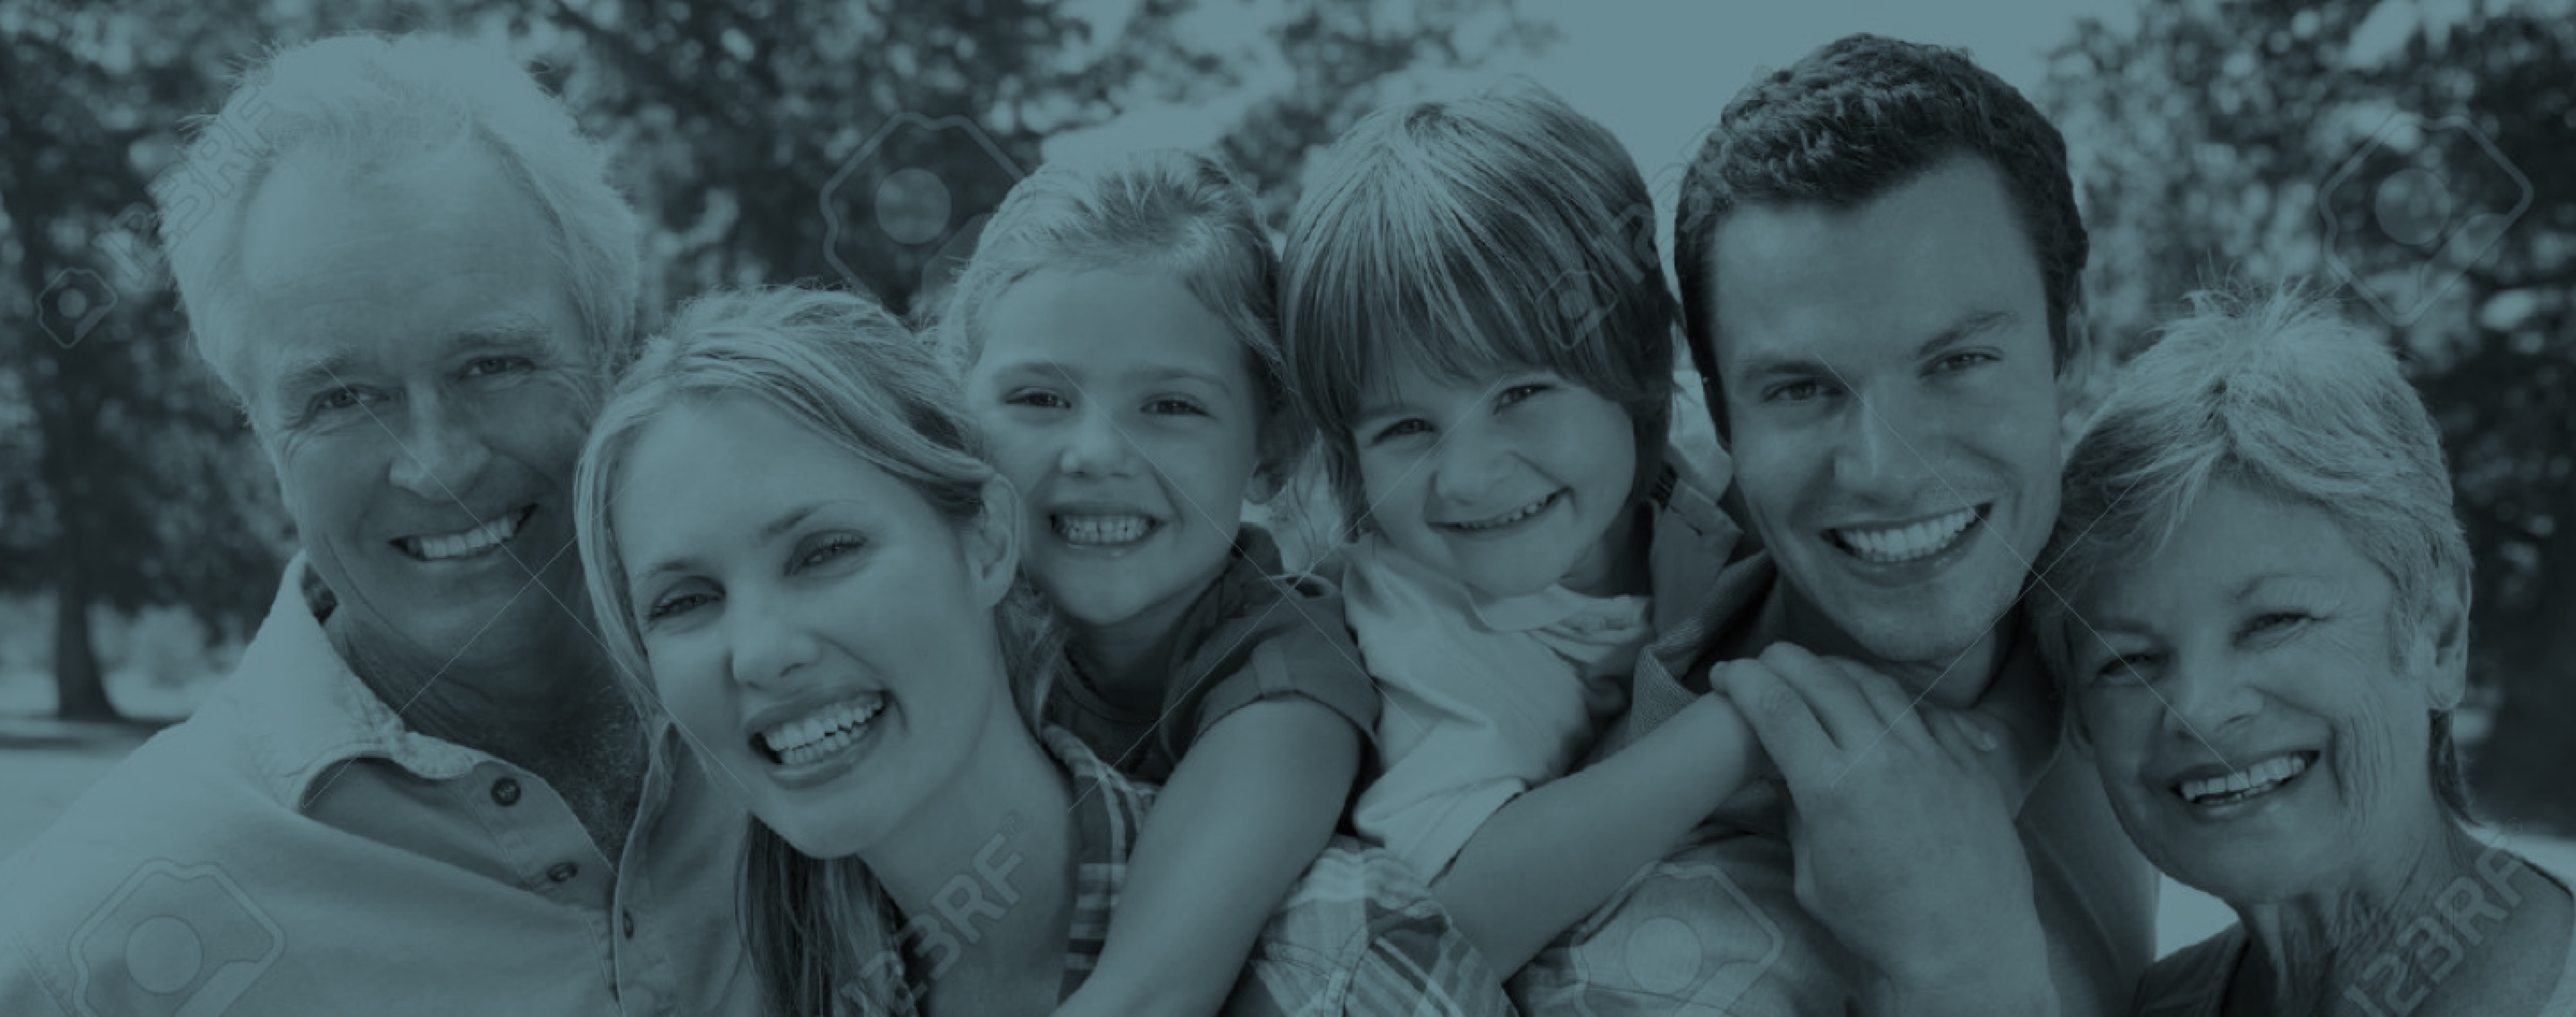
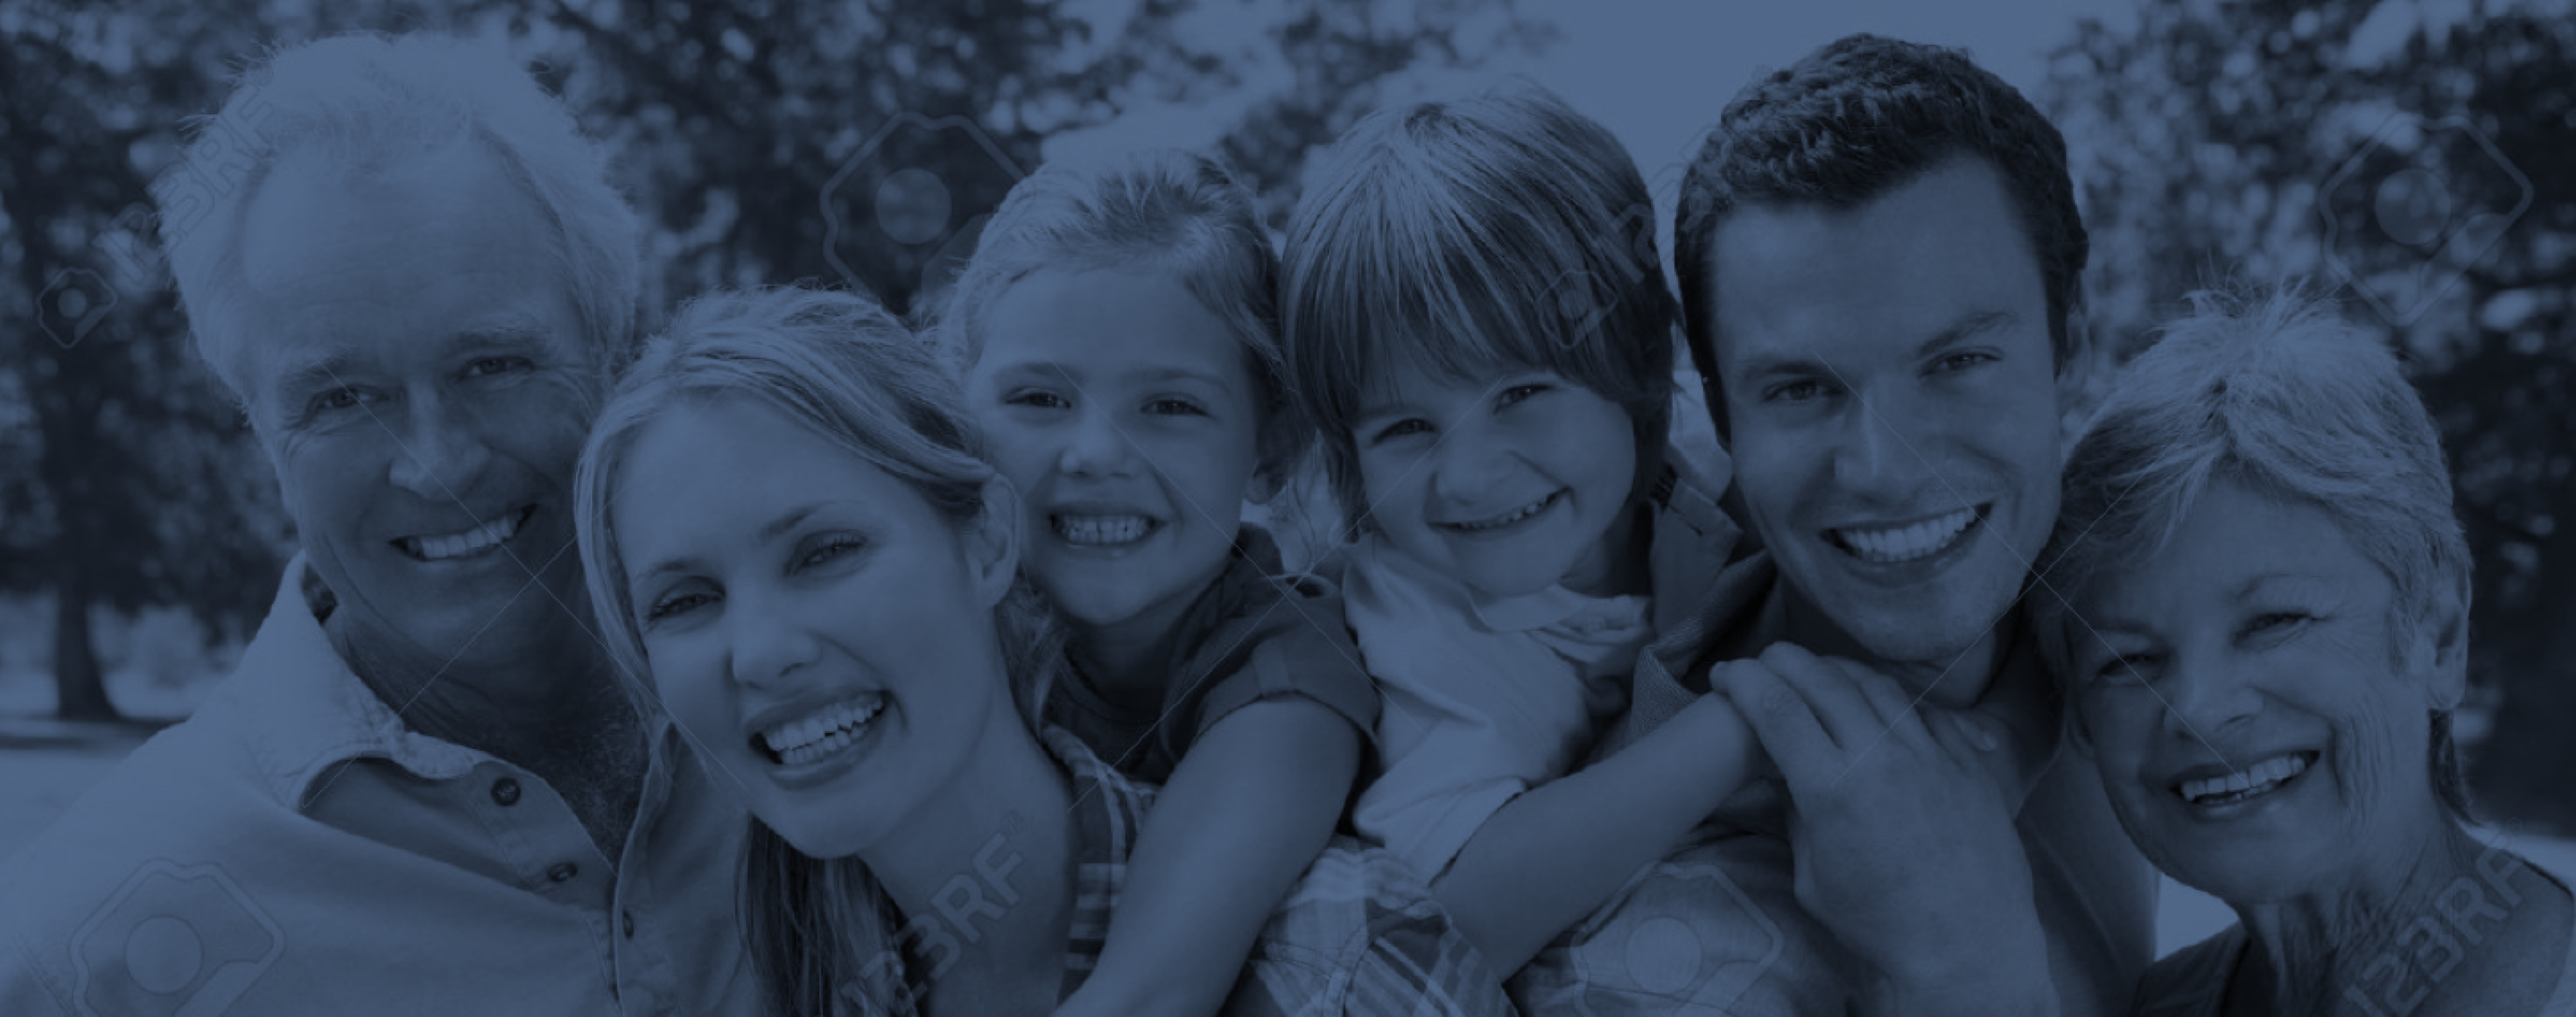
version-color-azul

diff --git a/estilos.less b/estilos.less
@@ -4,6 +4,10 @@
  * Licensed under MIT (https://github.com/BlackrockDigital/startbootstrap/blob/gh-pages/LICENSE)
  */
 
+@azul-oscuro: #2F4B74;
+@azul-claro: #C3D2E9;
+@naranja: #E26D00;
+
 html,
 body {
     height: 560px;
@@ -43,7 +47,7 @@ body {
 .carousel-caption h2{
     font-weight: 400;
     font-size: 42px;
-    color: #ECFFDF;
+    color: @azul-claro;
     line-height: 44px;
     margin-bottom: 1em;
 }
@@ -110,8 +114,8 @@ nav{
 .entrada{
     padding: 2em;
     height: 200px;
-    background: #3AB294;
-    border-top: solid 10px #ECFFDF; 
+    background: @naranja;
+    border-top: solid 10px #723A05; 
     position: relative;
     margin-top: -7em;
     -webkit-box-shadow: 0px 0px 80px -17px rgba(0,0,0,0.75);
@@ -145,7 +149,7 @@ box-shadow: 0px 0px 80px -17px rgba(0,0,0,0.75);
     h3{
         font-family: Roboto-Bold;
         font-size: 30px;
-        color: #3AB294;
+        color: @azul-oscuro;
         letter-spacing: 5.11px;
         line-height: 35px;
      }
@@ -154,7 +158,7 @@ box-shadow: 0px 0px 80px -17px rgba(0,0,0,0.75);
         width: 39px;
         height: 4px;
         margin: 0 auto;
-        background: #2F3D41;
+        background: @naranja;
     }
 }
 
@@ -168,27 +172,27 @@ box-shadow: 0px 0px 80px -17px rgba(0,0,0,0.75);
         h3{
             font-family: Roboto-Light;
             font-size: 33px;
-            color: #36C199;
+            color: @azul-oscuro;
             line-height: 39px;
             margin-top: 1em;
         }
         .line{
             margin-bottom: 2em;
             width: 120px;
-            border: 1px solid #36C199;
+            border: 1px solid @naranja;
         }
         p{
             font-family: Roboto-Light;
             font-size: 22px;
-            color: #2F3D41;
+            color: @azul-oscuro;
             line-height: 37px;
         }
     }
 }
 
 .bg-about-us{
-    background: #2F3D41;
-    border-top: #36C199 solid 10px;
+    background: @azul-oscuro;
+    border-top: @naranja solid 10px;
     margin-top: 5em;
     
     .titulo-seccion{
@@ -196,10 +200,10 @@ box-shadow: 0px 0px 80px -17px rgba(0,0,0,0.75);
     }
     
     .negativo{
-        color: #EAFFD9;
+        color: white;
     }
     .line{
-        background-color: #36C199;
+        background-color: @naranja;
         margin-bottom: 4em;
     }
     
@@ -222,7 +226,7 @@ box-shadow: 0px 0px 80px -17px rgba(0,0,0,0.75);
     p, input, textarea, label, button{
         font-family: Roboto-Light;
         font-size: 22px;
-        color: #2F3D41;
+        color: @azul-oscuro;
         line-height: 37px;
         border-radius: 8px;
     }
@@ -231,7 +235,7 @@ box-shadow: 0px 0px 80px -17px rgba(0,0,0,0.75);
     }
     
     button{
-        background: #36C199;
+        background: @azul-oscuro;
         color: white;
         font-weight: bold;
     }
@@ -239,11 +243,11 @@ box-shadow: 0px 0px 80px -17px rgba(0,0,0,0.75);
 }
 
 .footer{
-    background: #2F3D41;
+    background: @azul-oscuro;
     padding: 1.5em 0 .8em 0;
     font-family: Roboto-Light;
     font-size: 22px;
-    color: #95CCBF;
+    color: @azul-claro;
 }
 
 //mediaqueries

diff --git a/estilos.css b/estilos.css
@@ -35,7 +35,7 @@ body {
 .carousel-caption h2 {
   font-weight: 400;
   font-size: 42px;
-  color: #ECFFDF;
+  color: #c3d2e9;
   line-height: 44px;
   margin-bottom: 1em;
 }
@@ -85,8 +85,8 @@ nav .navegacion ul li a {
 .entrada {
   padding: 2em;
   height: 200px;
-  background: #3AB294;
-  border-top: solid 10px #ECFFDF;
+  background: #e26d00;
+  border-top: solid 10px #723A05;
   position: relative;
   margin-top: -7em;
   -webkit-box-shadow: 0px 0px 80px -17px rgba(0, 0, 0, 0.75);
@@ -114,7 +114,7 @@ nav .navegacion ul li a {
 .titulo-seccion h3 {
   font-family: Roboto-Bold;
   font-size: 30px;
-  color: #3AB294;
+  color: #2f4b74;
   letter-spacing: 5.11px;
   line-height: 35px;
 }
@@ -122,39 +122,39 @@ nav .navegacion ul li a {
   width: 39px;
   height: 4px;
   margin: 0 auto;
-  background: #2F3D41;
+  background: #e26d00;
 }
 .solutions .solution h3 {
   font-family: Roboto-Light;
   font-size: 33px;
-  color: #36C199;
+  color: #2f4b74;
   line-height: 39px;
   margin-top: 1em;
 }
 .solutions .solution .line {
   margin-bottom: 2em;
   width: 120px;
-  border: 1px solid #36C199;
+  border: 1px solid #e26d00;
 }
 .solutions .solution p {
   font-family: Roboto-Light;
   font-size: 22px;
-  color: #2F3D41;
+  color: #2f4b74;
   line-height: 37px;
 }
 .bg-about-us {
-  background: #2F3D41;
-  border-top: #36C199 solid 10px;
+  background: #2f4b74;
+  border-top: #e26d00 solid 10px;
   margin-top: 5em;
 }
 .bg-about-us .titulo-seccion {
   margin-bottom: -10em;
 }
 .bg-about-us .negativo {
-  color: #EAFFD9;
+  color: white;
 }
 .bg-about-us .line {
-  background-color: #36C199;
+  background-color: #e26d00;
   margin-bottom: 4em;
 }
 .bg-about-us p {
@@ -176,7 +176,7 @@ nav .navegacion ul li a {
 .bg-contact-us button {
   font-family: Roboto-Light;
   font-size: 22px;
-  color: #2F3D41;
+  color: #2f4b74;
   line-height: 37px;
   border-radius: 8px;
 }
@@ -185,16 +185,16 @@ nav .navegacion ul li a {
   padding: 1em;
 }
 .bg-contact-us button {
-  background: #36C199;
+  background: #2f4b74;
   color: white;
   font-weight: bold;
 }
 .footer {
-  background: #2F3D41;
+  background: #2f4b74;
   padding: 1.5em 0 .8em 0;
   font-family: Roboto-Light;
   font-size: 22px;
-  color: #95CCBF;
+  color: #c3d2e9;
 }
 @media screen and (max-width: 483px) {
   .carousel-caption h2 {
